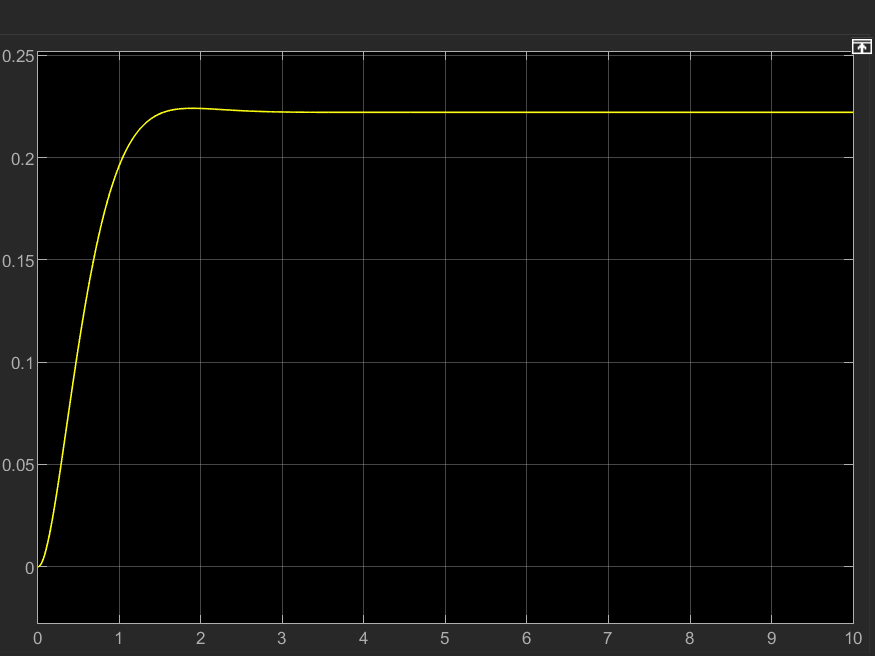
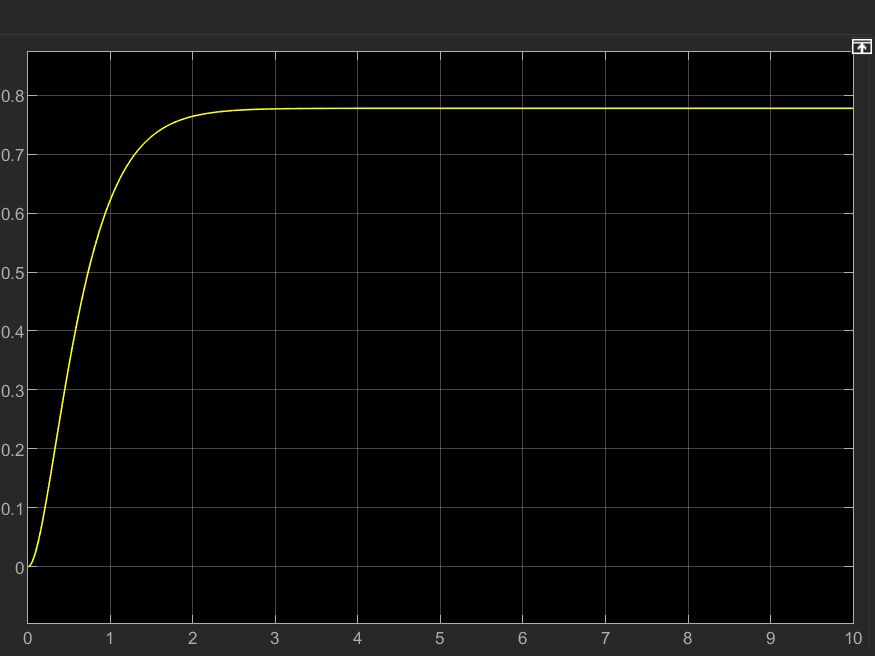
[lab03] different subscript for each figure

diff --git a/lab03-lti_systems/part02_transfer_fnc_analysis_m1.m b/lab03-lti_systems/part02_transfer_fnc_analysis_m1.m
@@ -1,11 +1,17 @@
 % Canonical : https://github.com/lduran2/ece3413_classical_control_systems/lab03-lti_systems/part02_transfer_fnc_analysis_m1.m
 % Automates simultion of various transfer functions
 % By        : Leomar Duran <https://github.com/lduran2>
-% When      : 2022-02-12t20:18R
+% When      : 2022-02-12t20:40R
 % For       : ECE 3413
-% Version   : 1.2.7
+% Version   : 1.2.8-alpha01
 %
 % CHANGELOG :
+%   v1.2.8-alpha01 - 2022-02-12t20:40R
+%       different subscript for each figure
+%
+%   v1.2.8-alpha00 - 2022-02-12t20:30R
+%       multiple transport functions
+%
 %   v1.2.7 - 2022-02-12t20:18R
 %       found the steady state error
 %
@@ -74,92 +80,105 @@ source_base_cell = join({source_words{1:end-1}}, WORD_DELIM)
 sim_name = [ source_base_cell{:} WORD_DELIM SIM_SUFFIX ]
 sim_source = [ sim_name FILE_SUFFIX ]
 
-%% transfer function
-B = [2];        % the numerator
-A = [1 5 9];    % the denominator
+%% transfer functions
+transfer_fncs = {
+    [2], [ 1 5 9 ];
+    [5], [ 1 9 9 ];
+    [9], [ 1 0 9 ];
+    [7], [ 1 6 9 ]
+}
 
-% generate the transfer function
-Ga_s = tf(B,A)
+%% loop through the transfer functions
+for iG=size(transfer_fncs, 1)
+    % get the coefficients at row iG
+    % B := the numerator
+    % A := the denominator
+    [B, A] = transfer_fncs{iG, :}
+    % calculate the subscript
+    sbx = ('a' + iG - 1);
 
-%% run the simulation
-out = sim(sim_source)
+    %% analyze the filter given by iG
 
-%% save the scope image
-% open the scope
-nScopeSys = [ sim_name SYS_DELIM N_SCOPE ]
-open_system(nScopeSys)
-% get the scope handle
-hScope = findall(0, 'Name', N_SCOPE)
-% get a handle for the source plot (opened by `open_system`)
-hSrc = findobj(hScope.UserData.Parent, 'Tag', 'VisualizationPanel')
-% create the target figure
-hTgt = figure;
-% do not invert the background in target
-set(hTgt, 'InvertHardCopy', 'off')
-% copy to target for saving
-copyobj(hSrc, hTgt)
-% save the result
-saveas(hTgt, [ FIG_DIR '/Ga_s.png' ])
-% close the target
-close(hTgt)
+    %% run the simulation
+    out = sim(sim_source)
 
-% close the scope
-close_system(nScopeSys)
+    %% save the scope image
+    % open the scope
+    nScopeSys = [ sim_name SYS_DELIM N_SCOPE ]
+    open_system(nScopeSys)
+    % get the scope handle
+    hScope = findall(0, 'Name', N_SCOPE)
+    % get a handle for the source plot (opened by `open_system`)
+    hSrc = findobj(hScope.UserData.Parent, 'Tag', 'VisualizationPanel')
+    % create the target figure
+    hTgt = figure;
+    % do not invert the background in target
+    set(hTgt, 'InvertHardCopy', 'off')
+    % copy to target for saving
+    copyobj(hSrc, hTgt)
+    % save the result
+    saveas(hTgt, [ FIG_DIR '/G' sbx '_s.png' ])
+    % close the target
+    close(hTgt)
 
-%% get the data and time
-y = out.simout.data;
-t = out.simout.time;
-n_samp = size(y, 1)     % number of samples
-delta_t = t(2) - t(1)   % delta of time samples
+    % close the scope
+    close_system(nScopeSys)
 
-%% find peak time, Tk
-% this is the time that y reaches its max
-% get the max and its index
-[Y, K] = max(y)
-% the corresponding time is peak time
-Tk = t(K)   % [s]
+    %% get the data and time
+    y = out.simout.data;
+    t = out.simout.time;
+    n_samp = size(y, 1)     % number of samples
+    delta_t = t(2) - t(1)   % delta of time samples
 
-%% find settling time, Ts
-% this is the time that y is within 5% of the remaining mean
-% for each sample
-for ks=(K+1):n_samp
-    % find the mean of y's from k
-    Ey = mean(y(ks:n_samp));
-    % stop if y(k) is within 5% of E[y]
-    if (abs(y(ks) - Ey) < (0.05 * Ey))
-        break
-    end % if (abs(y(k) - Ey) < (0.05 * Ey))
-end % for ks=1:n_samp
-% the corresponding time is settling time
-Ts = t(ks)
-% save Ey as the final value of y
-y_final = Ey
+    %% find peak time, Tk
+    % this is the time that y reaches its max
+    % get the max and its index
+    [Y, K] = max(y)
+    % the corresponding time is peak time
+    Tk = t(K)   % [s]
 
-%% find rise time, Tr
-y10_exp = 0.1*y_final   % expected 10%ile
-y90_exp = 0.9*y_final   % expected 90%ile
+    %% find settling time, Ts
+    % this is the time that y is within 5% of the remaining mean
+    % for each sample
+    for ks=(K+1):n_samp
+        % find the mean of y's from k
+        Ey = mean(y(ks:n_samp));
+        % stop if y(k) is within 5% of E[y]
+        if (abs(y(ks) - Ey) < (0.05 * Ey))
+            break
+        end % if (abs(y(k) - Ey) < (0.05 * Ey))
+    end % for ks=1:n_samp
+    % the corresponding time is settling time
+    Ts = t(ks)
+    % save Ey as the final value of y
+    y_final = Ey
 
-% find the indices of each %ile
-k10 = find_ceil(y, 1,   n_samp, y10_exp)
-k90 = find_ceil(y, k10, n_samp, y90_exp)
+    %% find rise time, Tr
+    y10_exp = 0.1*y_final   % expected 10%ile
+    y90_exp = 0.9*y_final   % expected 90%ile
 
-% display corresponding measured times
-t10_meas = t(k10)
-t90_meas = t(k90)
+    % find the indices of each %ile
+    k10 = find_ceil(y, 1,   n_samp, y10_exp)
+    k90 = find_ceil(y, k10, n_samp, y90_exp)
 
-% corresponding y(k)'s are a little high
-% estimate the proper values
-t10 = estimate_by_diff(y10_exp, y, k10, t10_meas, delta_t)
-t90 = estimate_by_diff(y90_exp, y, k90, t90_meas, delta_t)
+    % display corresponding measured times
+    t10_meas = t(k10)
+    t90_meas = t(k90)
 
-% the corresponding time difference is the rise time
-Tr = t90 - t10
+    % corresponding y(k)'s are a little high
+    % estimate the proper values
+    t10 = estimate_by_diff(y10_exp, y, k10, t10_meas, delta_t)
+    t90 = estimate_by_diff(y90_exp, y, k90, t90_meas, delta_t)
 
-%% find percent overshoot, %OS
-percentOS = (Y - y_final)/y_final * 100 % [%]
+    % the corresponding time difference is the rise time
+    Tr = t90 - t10
 
-%% find steady state error
-Ess = 1 - y_final
+    %% find percent overshoot, %OS
+    percentOS = (Y - y_final)/y_final * 100 % [%]
+
+    %% find steady state error
+    Ess = 1 - y_final
+end % for iG
 
 %% display finished
 disp('Done.')
